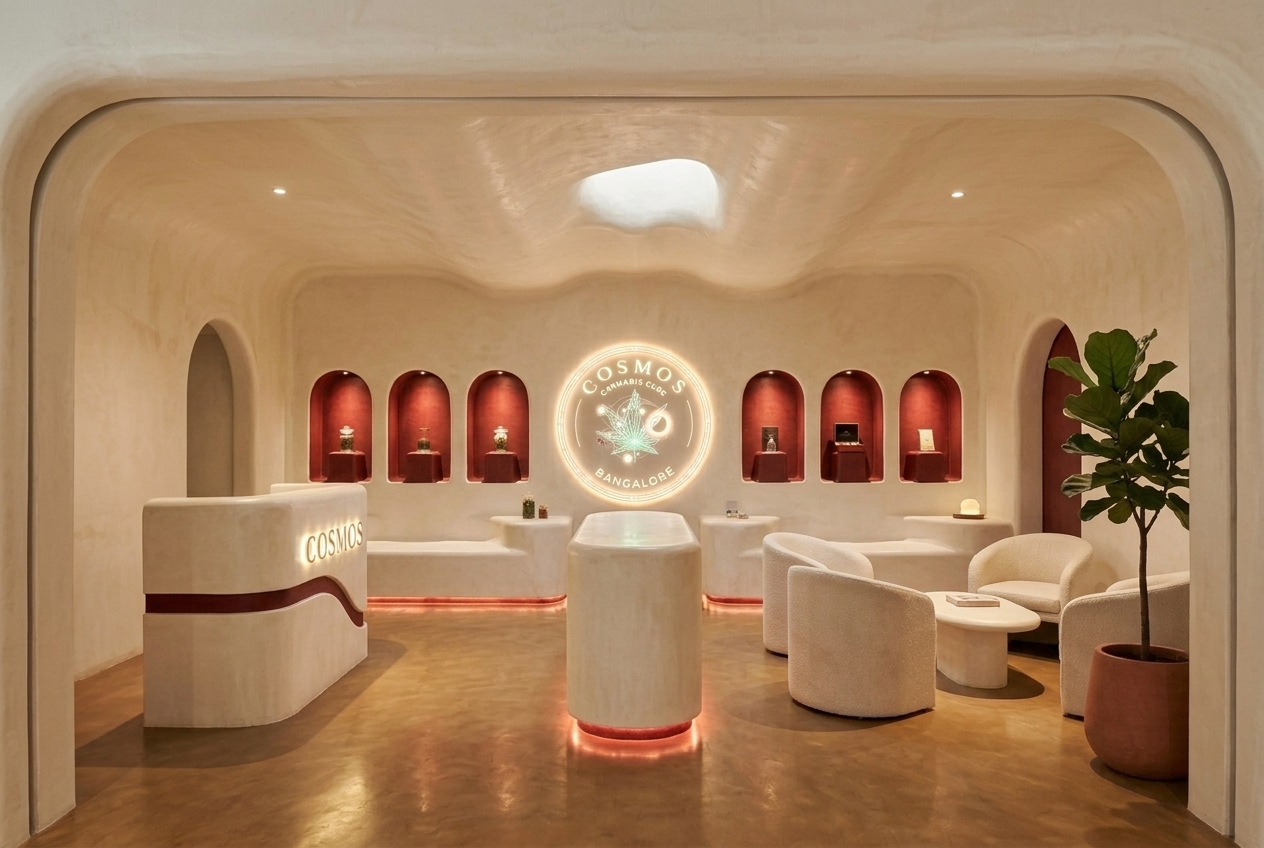
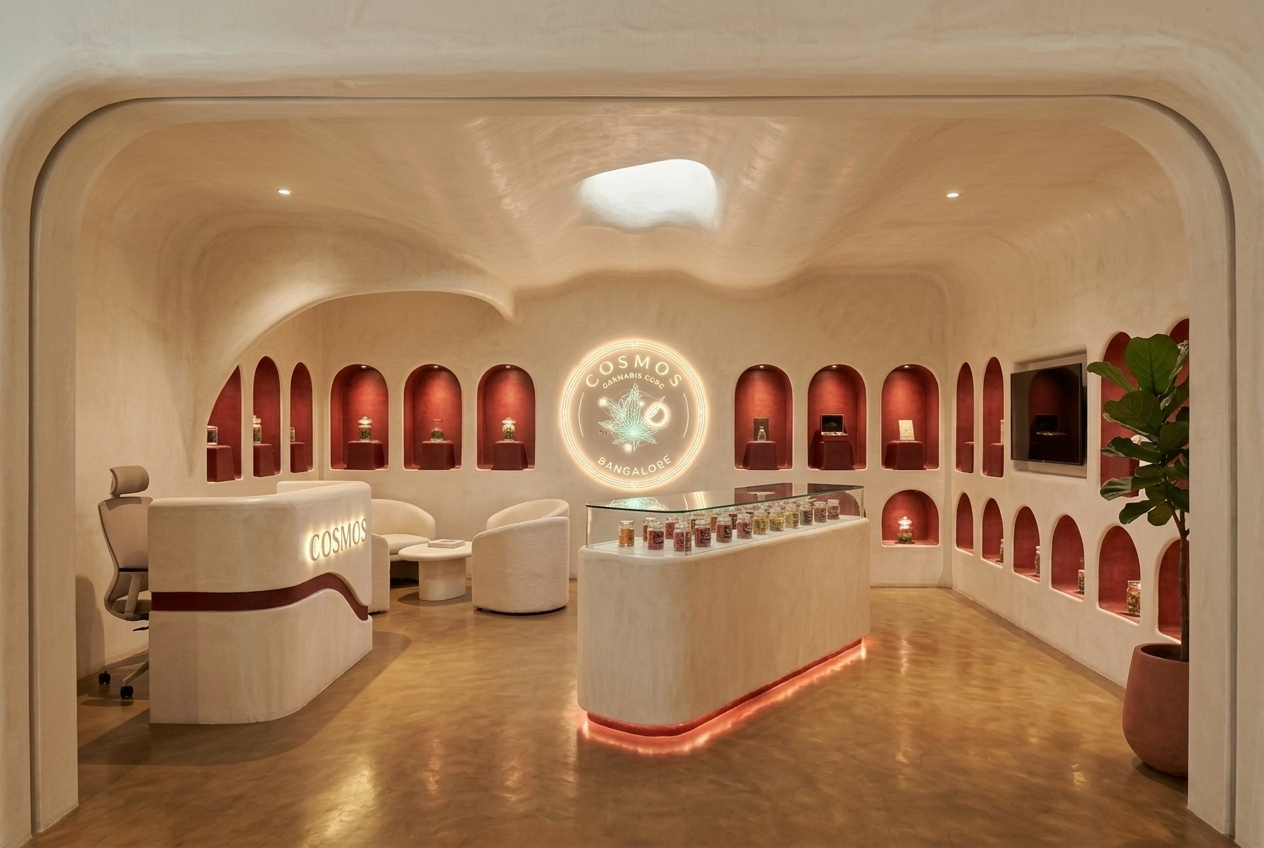
## Interior Layout Refined (Done & Verified) Updated the "Inside the Store" render per your notes: - **Island counter rotated lengthwise** — long glass-top display counter presented facing the entrance - **Niche walls wherever "Display" was marked** — a full run of red arched niches along the back w
- Next Action Items:
  - **Real Product Niches**: Swap the AI niche items for your actual product jars once you have studio shots
  - **Second Angle**: Generate a close-up of the consultation nook + reception for a small interior gallery
  - **Redeploy Production**: Push these changes live to www.cosmoscannabis.in
  - **Compliance Badges**: Add GMP/ISO/FSSAI logos to product pages once you upload the official files

diff --git a/memory/PRD.md b/memory/PRD.md
@@ -132,3 +132,6 @@ admin@cosmoscure.in / Cosmos@2026 (also in /app/memory/test_credentials.md)
 - Reworked the store interior concept per the user's floor plan: sculptural Santorini-style hand-troweled plaster, all curved/rounded edges, exterior texture blended inward, NO side glazing, low ~8ft ceiling, wide (26'10") shallow (13ft) proportions. Arched carved niches each display a single product highlighted by its own accent spotlight. Layout: sculpted reception desk (lit COSMOS logo), central island counter, back+side niche walls, glowing COSMOS seal centered, lounge seating.
 - Final palette: warm white/cream plaster with deep-red niche recesses + red cove-light accents (white/half-white to match the red brand). Saved at /brand-assets/store/interior-concept.jpg.
 - Added a new "Inside the Store" section (data-testid interior-section, interior-image-wrap) on Home.js between Location and Journal, with scroll-reveal animation. Verified live via screenshot.
+
+## Update (2026-07) — Interior Layout Refinement
+- Reworked interior render per feedback: island counter rotated LENGTHWISE with glass display top facing the entrance; niche walls now wherever "Display" was marked (full back wall + right wall + flanking the embedded TV), each niche with a single spotlit product; curved sculpted reception desk (lit COSMOS logo); back-left seating designated as the DOCTOR CONSULTATION nook (two armchairs + round table). Same white/cream plaster + red niche palette. Updated /brand-assets/store/interior-concept.jpg (live in the "Inside the Store" section).
